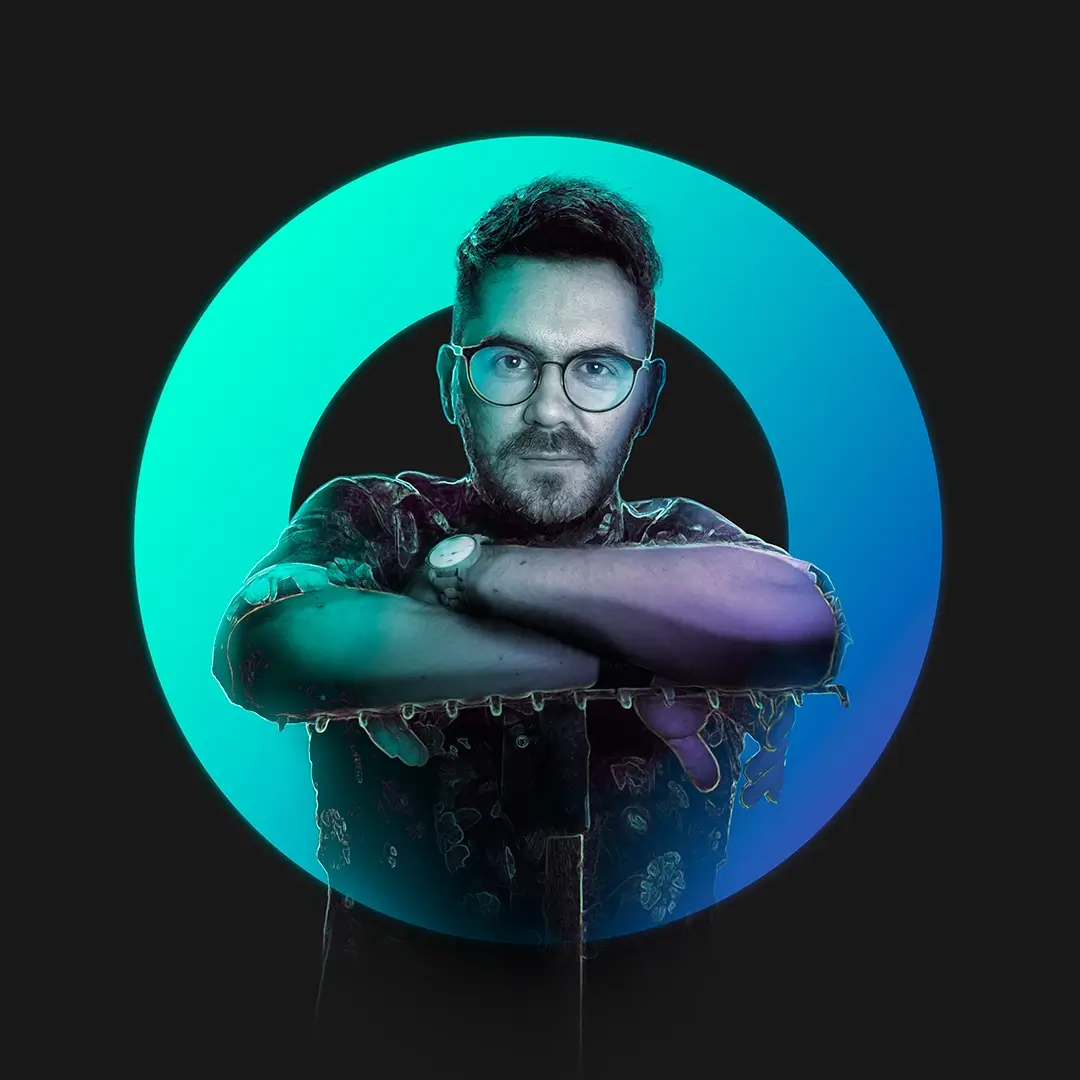
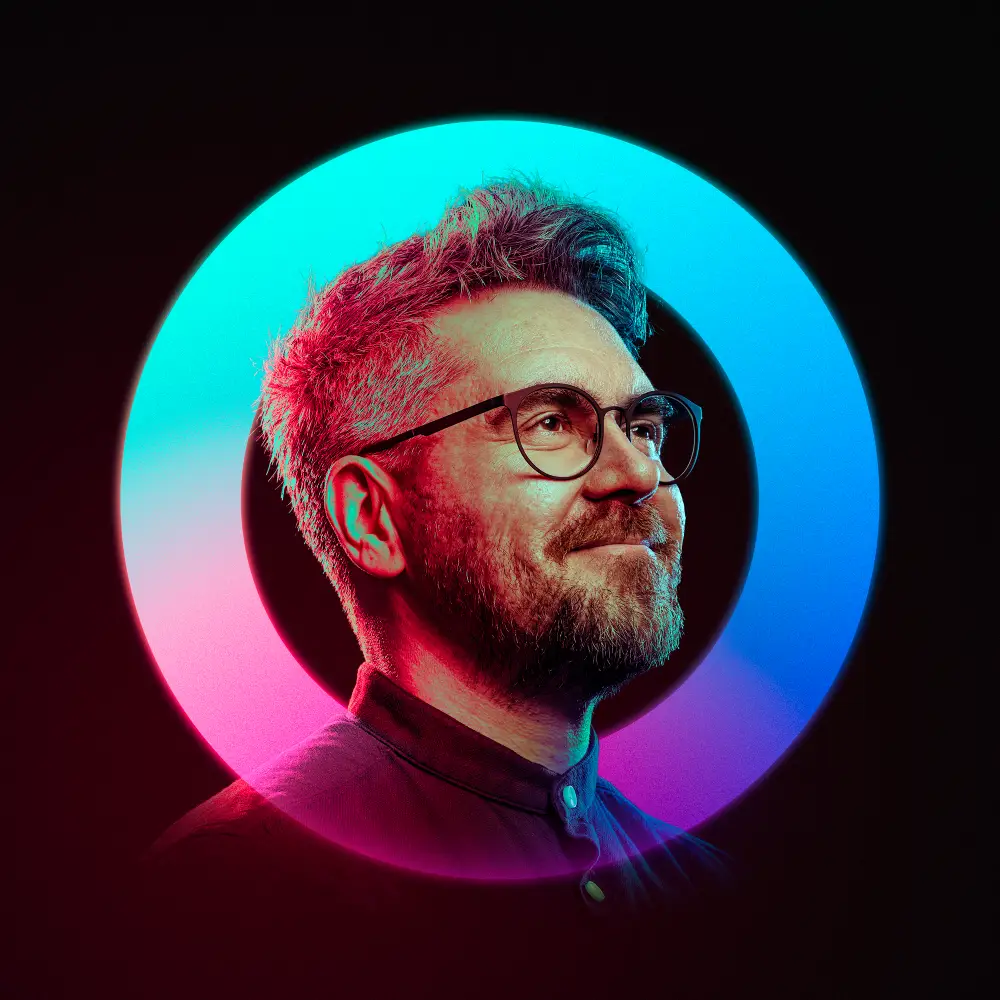
Update Martin H. information

diff --git a/src/components/Speakers.jsx b/src/components/Speakers.jsx
@@ -41,7 +41,7 @@ const days = [
         name: 'Martin Hrabánek',
         url: '#martin-hrabanek',
         role: 'Brand designer',
-        company: 'Brandtastic!',
+        company: 'High Contrast!',
         track: 'DSN',
         image: martinHrabanekImage,
       },

diff --git a/src/components/Schedule.jsx b/src/components/Schedule.jsx
@@ -64,7 +64,7 @@ const program = [
     block: [
       {
         stageName: 'Stage 1',
-        name: 'Bude upřesněno',
+        name: 'Případová studie STACA',
         description: 'Martin Hrabánek',
         track: 'DSN',
         id: 'martin-hrabanek',
